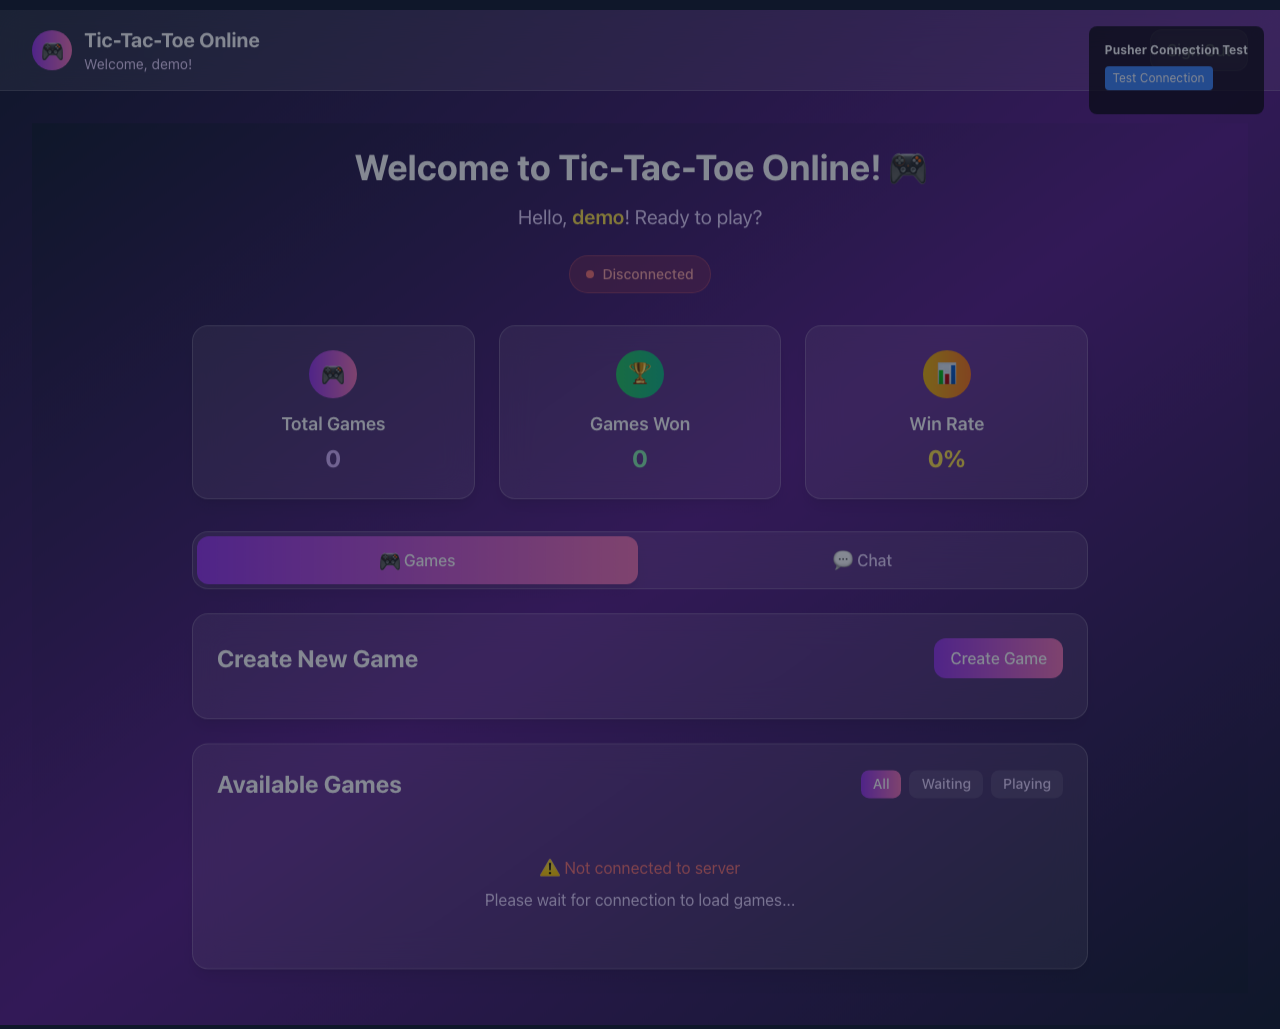
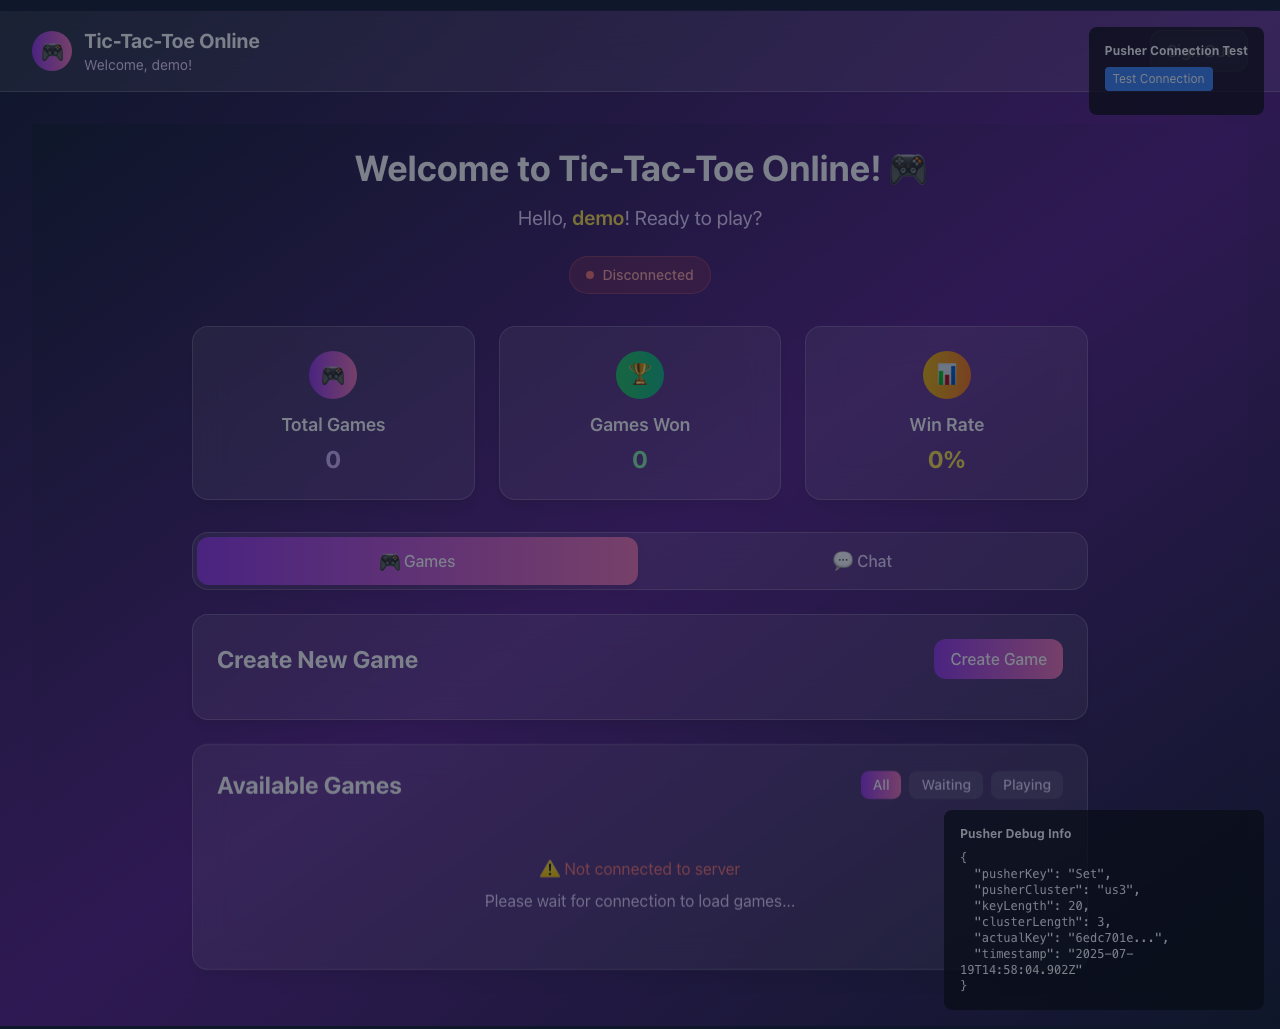
fix: improve Pusher configuration for better domain compatibility
- Add explicit host configuration for server-side Pusher
- Add explicit WebSocket host and port configuration for client
- Improve compatibility with production domain restrictions
- Better error handling for connection issues

diff --git a/lib/pusher.ts b/lib/pusher.ts
@@ -33,6 +33,8 @@ export const pusherServer = new PusherServer({
   useTLS: true,
   // Security settings
   encryptionMasterKeyBase64: process.env.PUSHER_ENCRYPTION_MASTER_KEY,
+  // Additional settings for better compatibility
+  host: `api-${env.PUSHER_CLUSTER}.pusherapp.com`,
 });
 
 // Client-side Pusher instance - will be initialized with config from server
@@ -44,6 +46,10 @@ const getPusherClientConfig = (key: string, cluster: string) => ({
   forceTLS: true,
   // Performance settings
   disableStats: true, // Disable stats collection for better performance
+  // Additional settings for better compatibility
+  wsHost: `ws-${cluster}.pusherapp.com`,
+  wsPort: 443,
+  wssPort: 443,
 });
 
 // Function to initialize Pusher client with config from server
